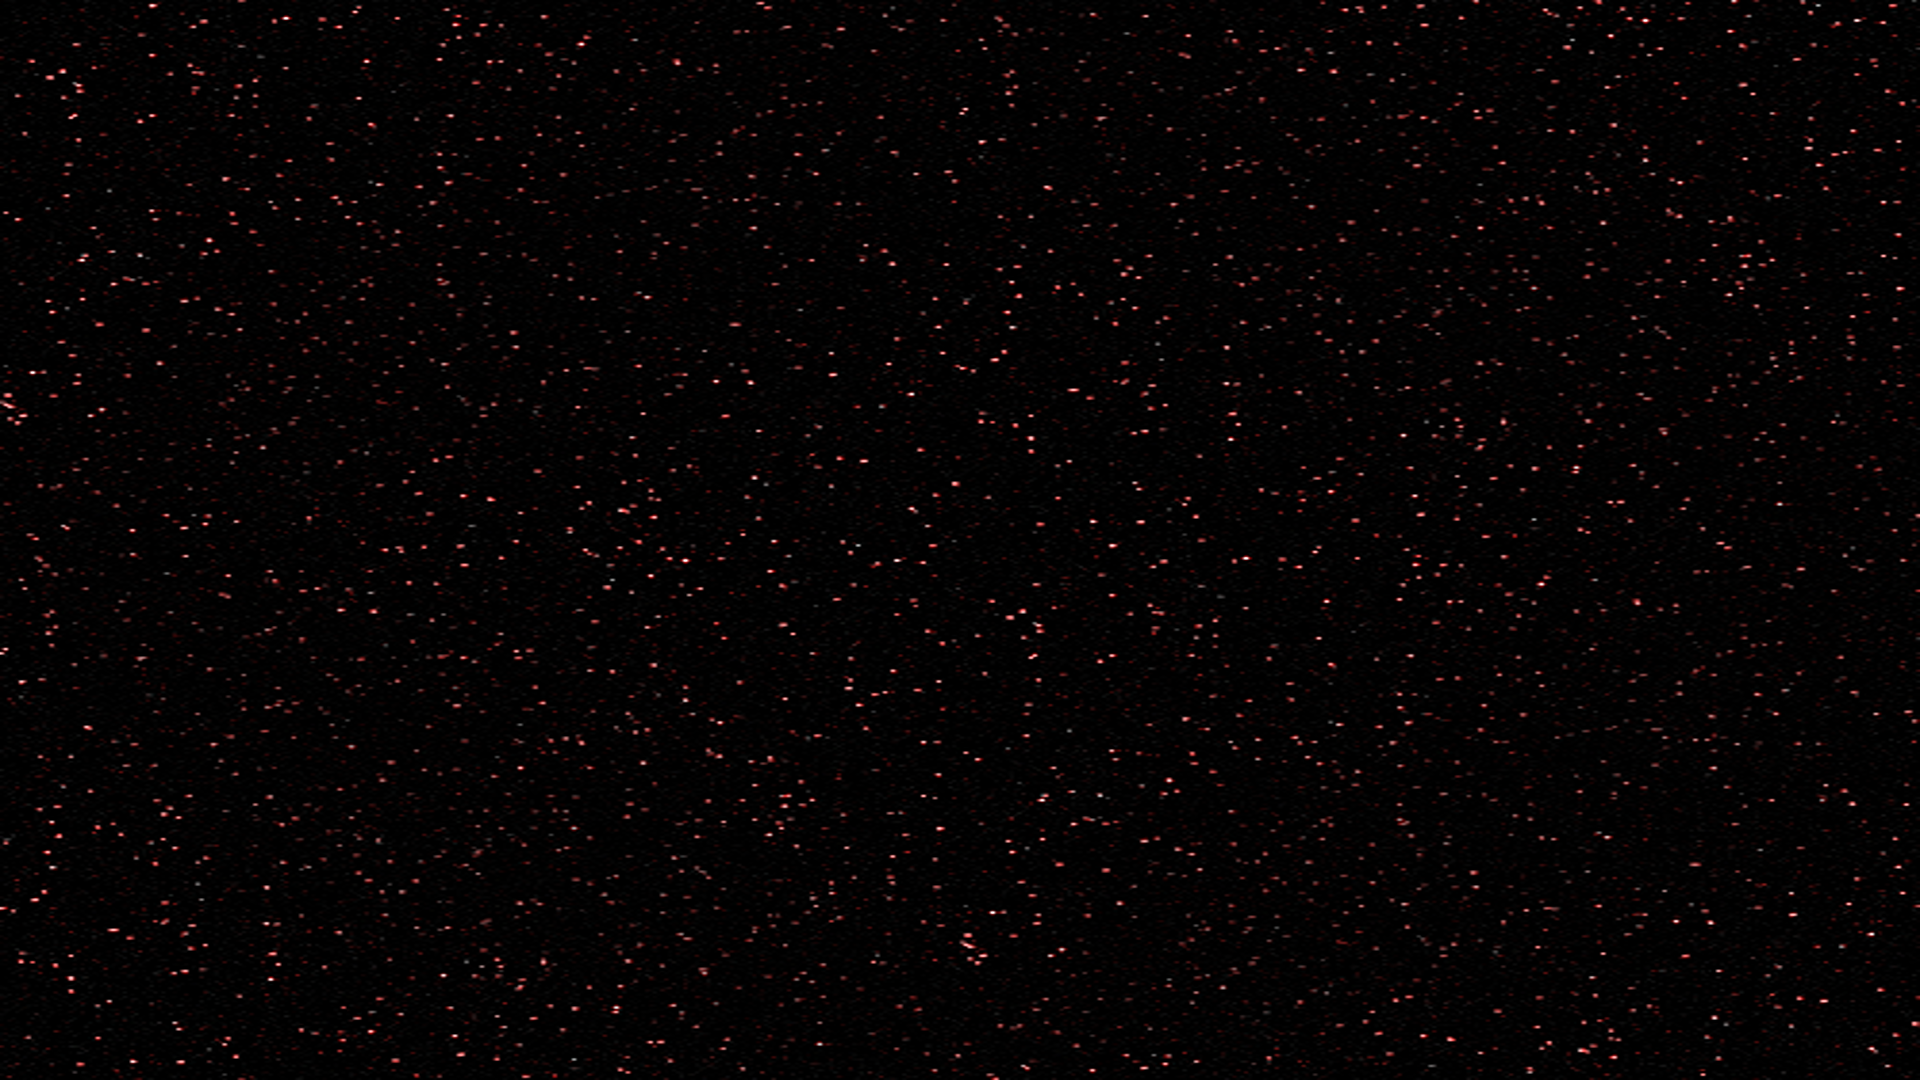
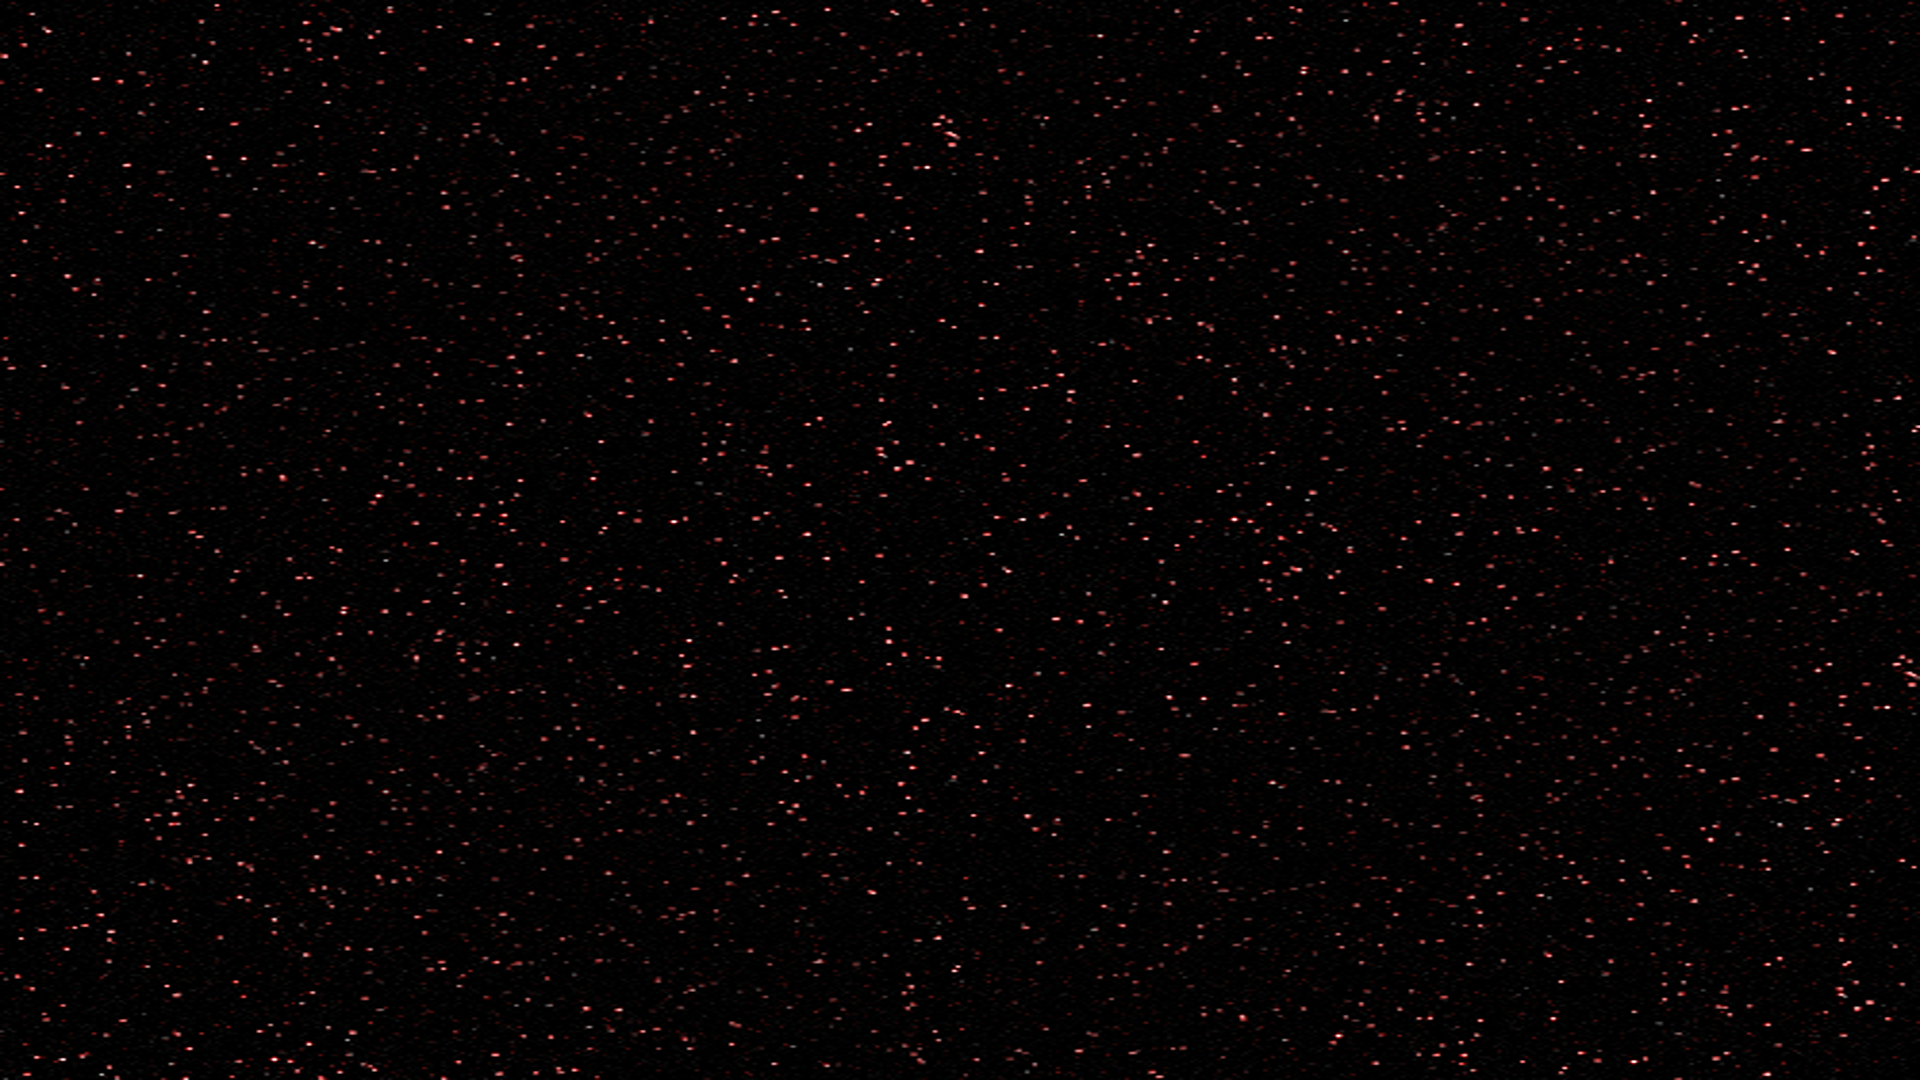
fix(client): fix parallax rotation

diff --git a/client/src/scenes/game.cpp b/client/src/scenes/game.cpp
@@ -15,7 +15,6 @@ void rtype::Client::drawGame()
     _graphical->clear();
     drawParallax();
     drawEntities();
-    // _graphical->drawSprite(_ecs.getComponent<Sprite>(player)->texture, _ecs.getComponent<Position>(_players[0])->x, _ecs.getComponent<Position>(_players[0])->y, 3, 180, 34, 34);
     _graphical->display();
 }
 
@@ -44,12 +43,11 @@ void rtype::Client::drawParallax()
         _parallaxPos.at(4).first = WINDOW_WIDTH;
     if (_parallaxPos.at(5).first <= -WINDOW_WIDTH)
         _parallaxPos.at(5).first = WINDOW_WIDTH;
-        
 
-    _graphical->drawSprite("parallax100", _parallaxPos.at(0).first, _parallaxPos.at(0).second, 0, 0, 1, 180, WINDOW_WIDTH, WINDOW_HEIGHT);
-    _graphical->drawSprite("parallax100", _parallaxPos.at(1).first, _parallaxPos.at(1).second, 0, 0, 1, 180, WINDOW_WIDTH, WINDOW_HEIGHT);
-    _graphical->drawSprite("parallax80", _parallaxPos.at(2).first, _parallaxPos.at(2).second, 0, 0, 1, 1, WINDOW_WIDTH, WINDOW_HEIGHT);
-    _graphical->drawSprite("parallax80", _parallaxPos.at(3).first, _parallaxPos.at(3).second, 0, 0, 1, 1, WINDOW_WIDTH, WINDOW_HEIGHT);
-    _graphical->drawSprite("parallax60", _parallaxPos.at(4).first, _parallaxPos.at(4).second, 0, 0, 1, 180, WINDOW_WIDTH, WINDOW_HEIGHT);
-    _graphical->drawSprite("parallax60", _parallaxPos.at(5).first, _parallaxPos.at(5).second, 0, 0, 1, 180, WINDOW_WIDTH, WINDOW_HEIGHT);
+    _graphical->drawSprite("parallax100", _parallaxPos.at(0).first, _parallaxPos.at(0).second, 0, 0, 1, 0, WINDOW_WIDTH, WINDOW_HEIGHT);
+    _graphical->drawSprite("parallax100", _parallaxPos.at(1).first, _parallaxPos.at(1).second, 0, 0, 1, 0, WINDOW_WIDTH, WINDOW_HEIGHT);
+    _graphical->drawSprite("parallax80", _parallaxPos.at(2).first, _parallaxPos.at(2).second, 0, 0, 1, 0, WINDOW_WIDTH, WINDOW_HEIGHT);
+    _graphical->drawSprite("parallax80", _parallaxPos.at(3).first, _parallaxPos.at(3).second, 0, 0, 1, 0, WINDOW_WIDTH, WINDOW_HEIGHT);
+    _graphical->drawSprite("parallax60", _parallaxPos.at(4).first, _parallaxPos.at(4).second, 0, 0, 1, 0, WINDOW_WIDTH, WINDOW_HEIGHT);
+    _graphical->drawSprite("parallax60", _parallaxPos.at(5).first, _parallaxPos.at(5).second, 0, 0, 1, 0, WINDOW_WIDTH, WINDOW_HEIGHT);
 }
